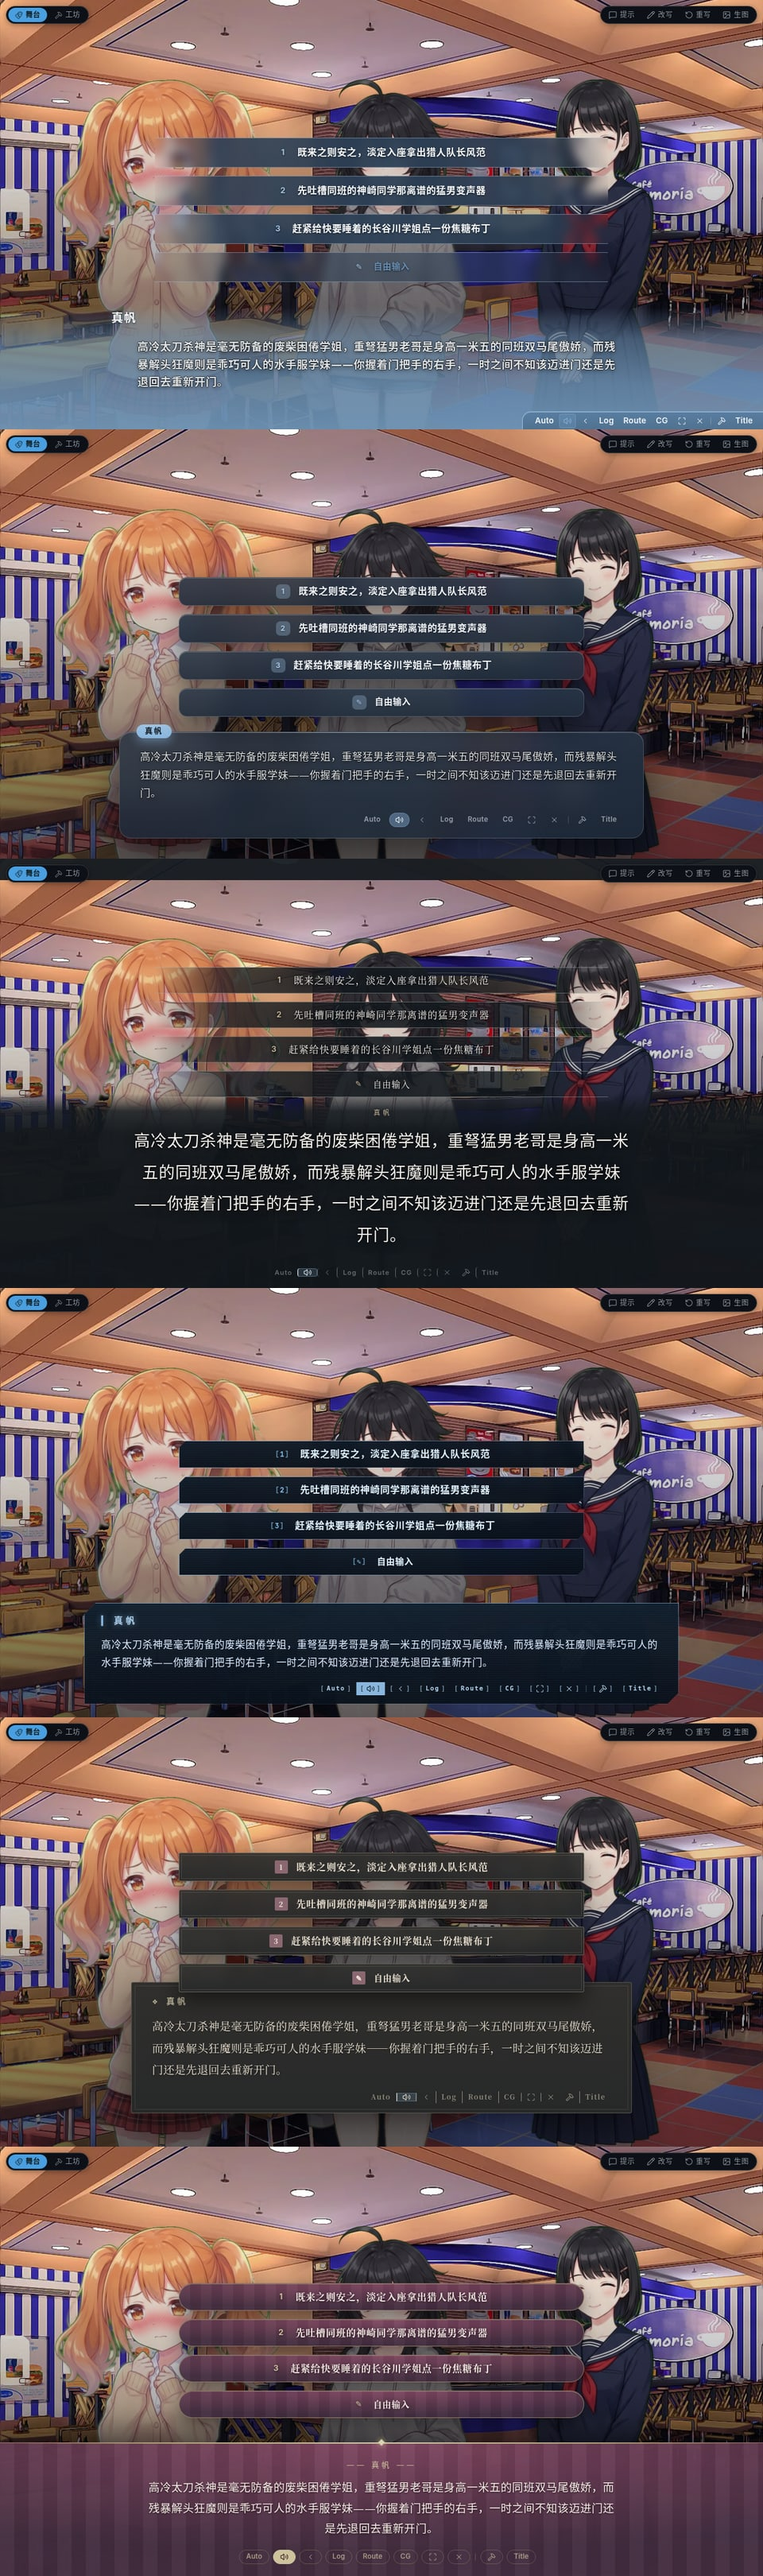
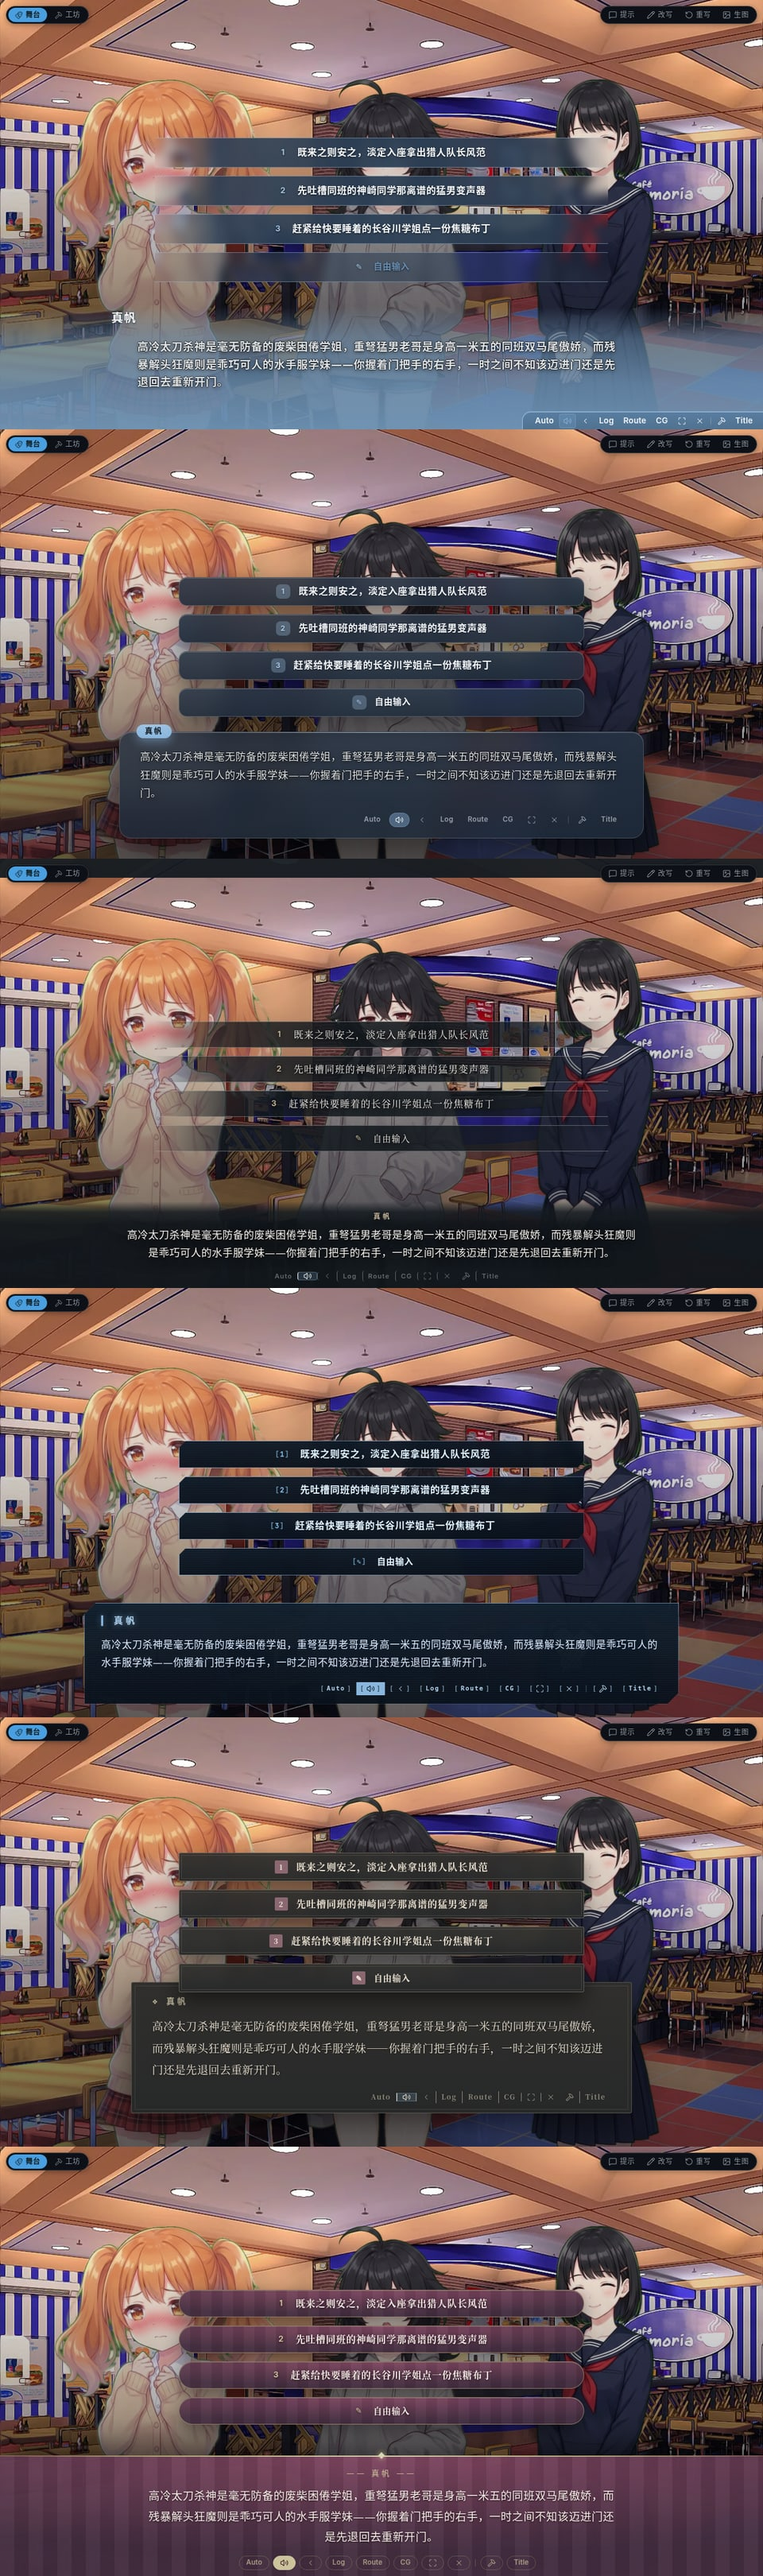
fix(stage): reduce cinema dialog height and font size to stop covering the scene
- cinema 档台词字号从 clamp(18px, 2.1vw, 27px) 收回到与其他档一致的 clamp(15.5px, 1.35vw, 18px)，行高 1.95 → 1.75，宽度放宽到 min(82%, 860px) 使常规长句两行排完
- 底带 min-height 从 30vh 收紧到 18vh（窄屏 32vh → 20vh）、上下内边距收紧，velvet 底带同步从 28vh 收紧到 21vh，不再顶高选项层或遮挡立绘上半身

Changed region(s): [[0.0, 0.3741, 1.0, 0.4988], [0.0, 0.8728, 1.0, 0.9975]]

diff --git a/packages/stage/src/stage.css b/packages/stage/src/stage.css
@@ -3316,13 +3316,13 @@ html[data-ui-theme="light"][data-dialog-style="card"] .stage-root .quick-sep {
   background: rgb(15 23 42 / 0.16);
 }
 
-/* ── V2 · 电影字幕：去掉底板，上下压成宽银幕，台词大字号居中 ─────────────── */
+/* ── V2 · 电影字幕：去掉底板，上下压成宽银幕，台词居中 ─────────────── */
 html[data-dialog-style="cinema"] .stage-root .theater-dialog {
-  min-height: 30vh;
-  padding: 26px 6% 62px;
+  min-height: 18vh;
+  padding: 18px 6% 44px;
   justify-content: center;
   gap: 0;
-  background: linear-gradient(180deg, rgb(0 0 0 / 0) 0%, color-mix(in srgb, var(--accent) 12%, rgb(0 0 0 / 0.82)) 9%, color-mix(in srgb, var(--accent) 12%, rgb(0 0 0 / 0.94)) 20%, color-mix(in srgb, var(--accent) 12%, rgb(0 0 0 / 0.96)) 100%);
+  background: linear-gradient(180deg, rgb(0 0 0 / 0) 0%, color-mix(in srgb, var(--accent) 12%, rgb(0 0 0 / 0.82)) 12%, color-mix(in srgb, var(--accent) 12%, rgb(0 0 0 / 0.94)) 26%, color-mix(in srgb, var(--accent) 12%, rgb(0 0 0 / 0.96)) 100%);
 }
 
 /* 上面那条黑边：从窗底往上铺满一屏、只把最顶上一段落成黑——不必给舞台加元素，
@@ -3336,31 +3336,31 @@ html[data-dialog-style="cinema"] .stage-root .theater-dialog::before {
   bottom: 0;
   height: 100vh;
   z-index: -1;
-  background: linear-gradient(180deg, color-mix(in srgb, var(--accent) 14%, rgb(0 0 0 / 0.94)) 0 5vh, transparent 5vh);
+  background: linear-gradient(180deg, color-mix(in srgb, var(--accent) 14%, rgb(0 0 0 / 0.94)) 0 4.5vh, transparent 4.5vh);
   pointer-events: none;
 }
 
 html[data-dialog-style="cinema"] .stage-root .dialog-name {
   position: static;
-  margin: 0 0 14px;
+  margin: 0 0 8px;
   padding: 0;
   color: color-mix(in srgb, var(--accent) 30%, #dfb37a);
-  font-size: 11px;
-  font-weight: 500;
-  letter-spacing: 0.42em;
-  text-indent: 0.42em;
+  font-size: 11.5px;
+  font-weight: 600;
+  letter-spacing: 0.36em;
+  text-indent: 0.36em;
   text-align: center;
   text-shadow: 0 1px 8px rgb(0 0 0 / 0.9);
 }
 
 html[data-dialog-style="cinema"] .stage-root .dialog-text {
-  width: min(74%, 900px);
+  width: min(82%, 860px);
   margin: 0 auto;
   text-align: center;
   color: #f4f1ec;
-  font-size: clamp(18px, 2.1vw, 27px);
+  font-size: clamp(15.5px, 1.35vw, 18px);
   font-weight: 400;
-  line-height: 1.95;
+  line-height: 1.75;
   letter-spacing: 0.03em;
   text-shadow: 0 2px 18px rgb(0 0 0 / 0.9), 0 1px 2px rgb(0 0 0 / 0.95);
 }
@@ -3369,7 +3369,7 @@ html[data-dialog-style="cinema"] .stage-root .dialog-foot {
   position: absolute;
   left: 0;
   right: 0;
-  bottom: calc(16px + var(--safe-b, 0px));
+  bottom: calc(10px + var(--safe-b, 0px));
   justify-content: center;
   gap: 18px;
   margin: 0;
@@ -3713,8 +3713,8 @@ html[data-ui-theme="light"][data-dialog-style="scroll"] .stage-root .quick-btn:h
 
 /* ── V5 · 丝绒幕：幕布式通栏 + 金线菱形坠，台词居中收窄 ──────────────────── */
 html[data-dialog-style="velvet"] .stage-root .theater-dialog {
-  min-height: 28vh;
-  padding: 30px 18% 62px;
+  min-height: 21vh;
+  padding: 22px 14% 48px;
   justify-content: center;
   gap: 0;
   --velvet-gold: color-mix(in srgb, var(--accent) 30%, #e8c780);
@@ -3782,7 +3782,7 @@ html[data-dialog-style="velvet"] .stage-root .dialog-foot {
   position: absolute;
   left: 0;
   right: 0;
-  bottom: calc(20px + var(--safe-b, 0px));
+  bottom: calc(10px + var(--safe-b, 0px));
   justify-content: center;
   gap: 20px;
   margin: 0;
@@ -4269,8 +4269,8 @@ html[data-ui-theme="light"][data-dialog-style="velvet"] .stage-root .choice:focu
   }
 
   html[data-dialog-style="cinema"] .stage-root .theater-dialog {
-    min-height: 32vh;
-    padding: 22px 16px 60px;
+    min-height: 20vh;
+    padding: 16px 16px 44px;
   }
 
   html[data-dialog-style="cinema"] .stage-root .theater-dialog::before {
@@ -4283,7 +4283,7 @@ html[data-ui-theme="light"][data-dialog-style="velvet"] .stage-root .choice:focu
   }
 
   html[data-dialog-style="velvet"] .stage-root .theater-dialog {
-    padding: 24px 16px 60px;
+    padding: 18px 16px 46px;
   }
 
   html[data-dialog-style="card"] .stage-root .choice,
